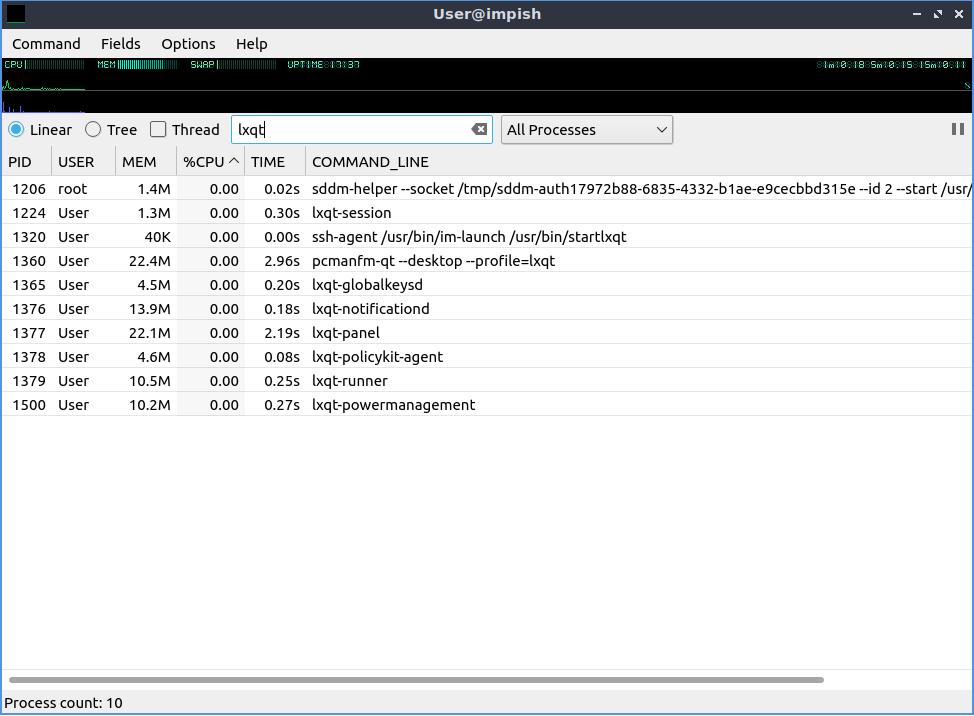
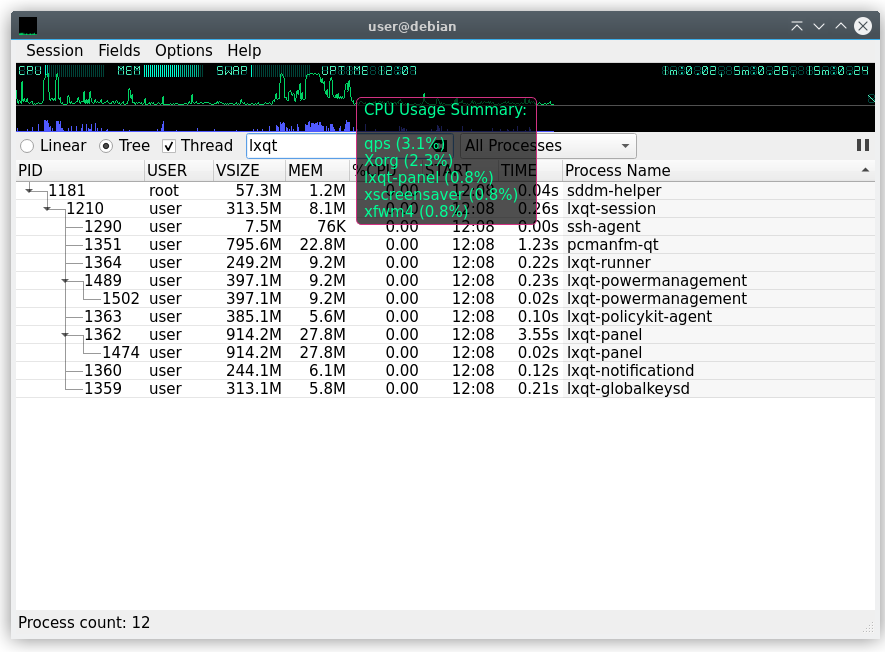
Updated screenshots and added metadata file (#442)
* Updated screenshots and added metadata file
* Removed obsolete license

Changed region(s): [[0.0, 0.0, 1.0, 1.0]]

diff --git a/README.md b/README.md
@@ -2,6 +2,8 @@
 
 ![Qps](qps.png)
 
+![Custom fields](fields.png)
+
 ### Building
 
 Requirements:
